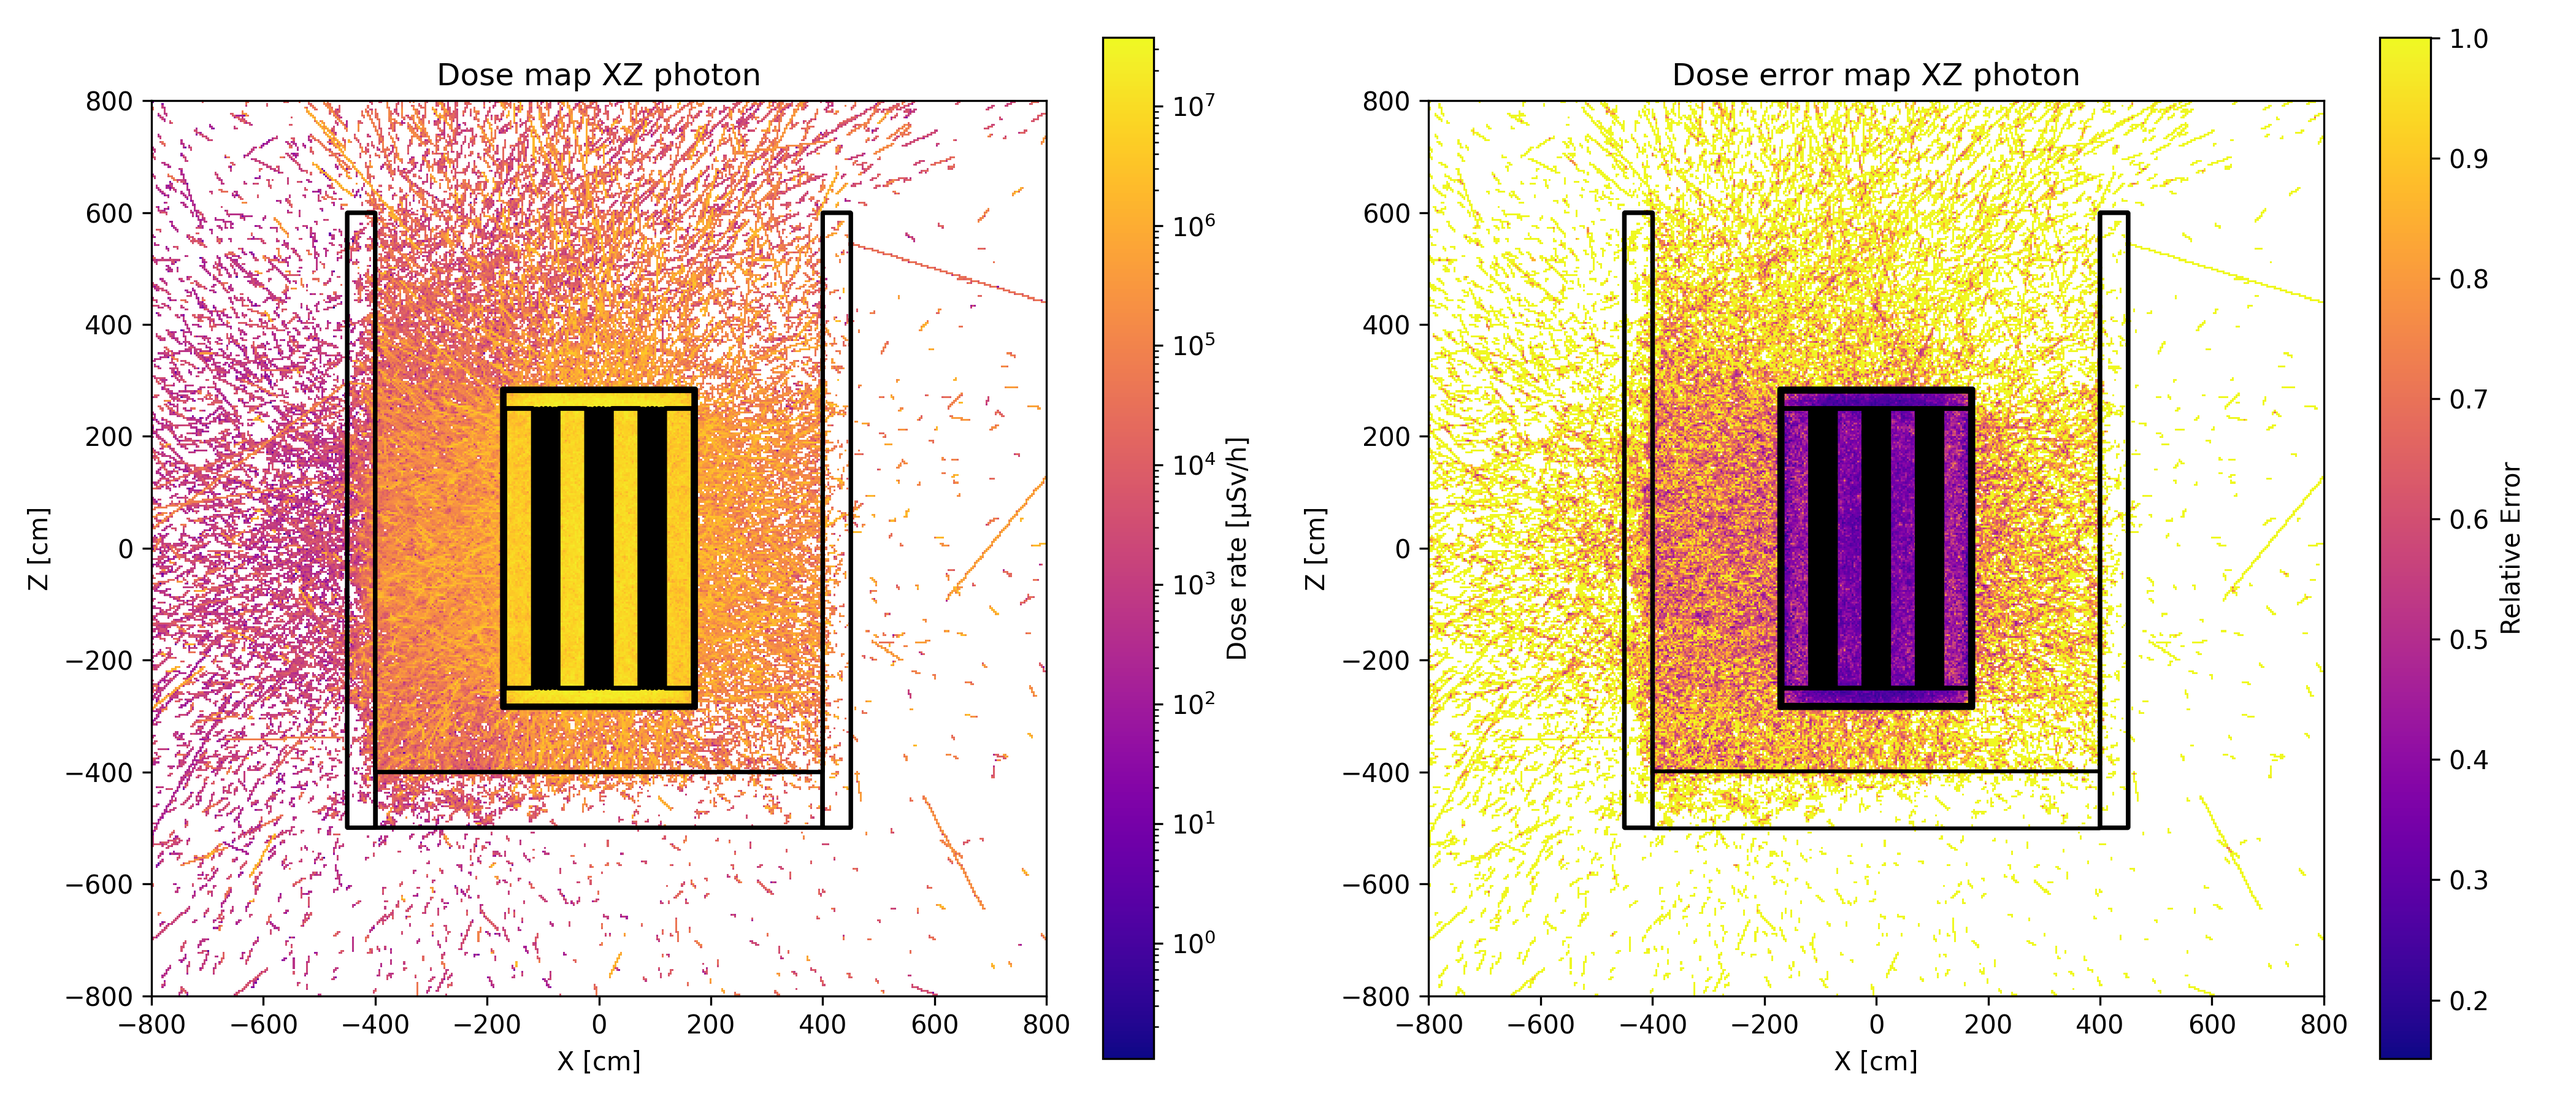
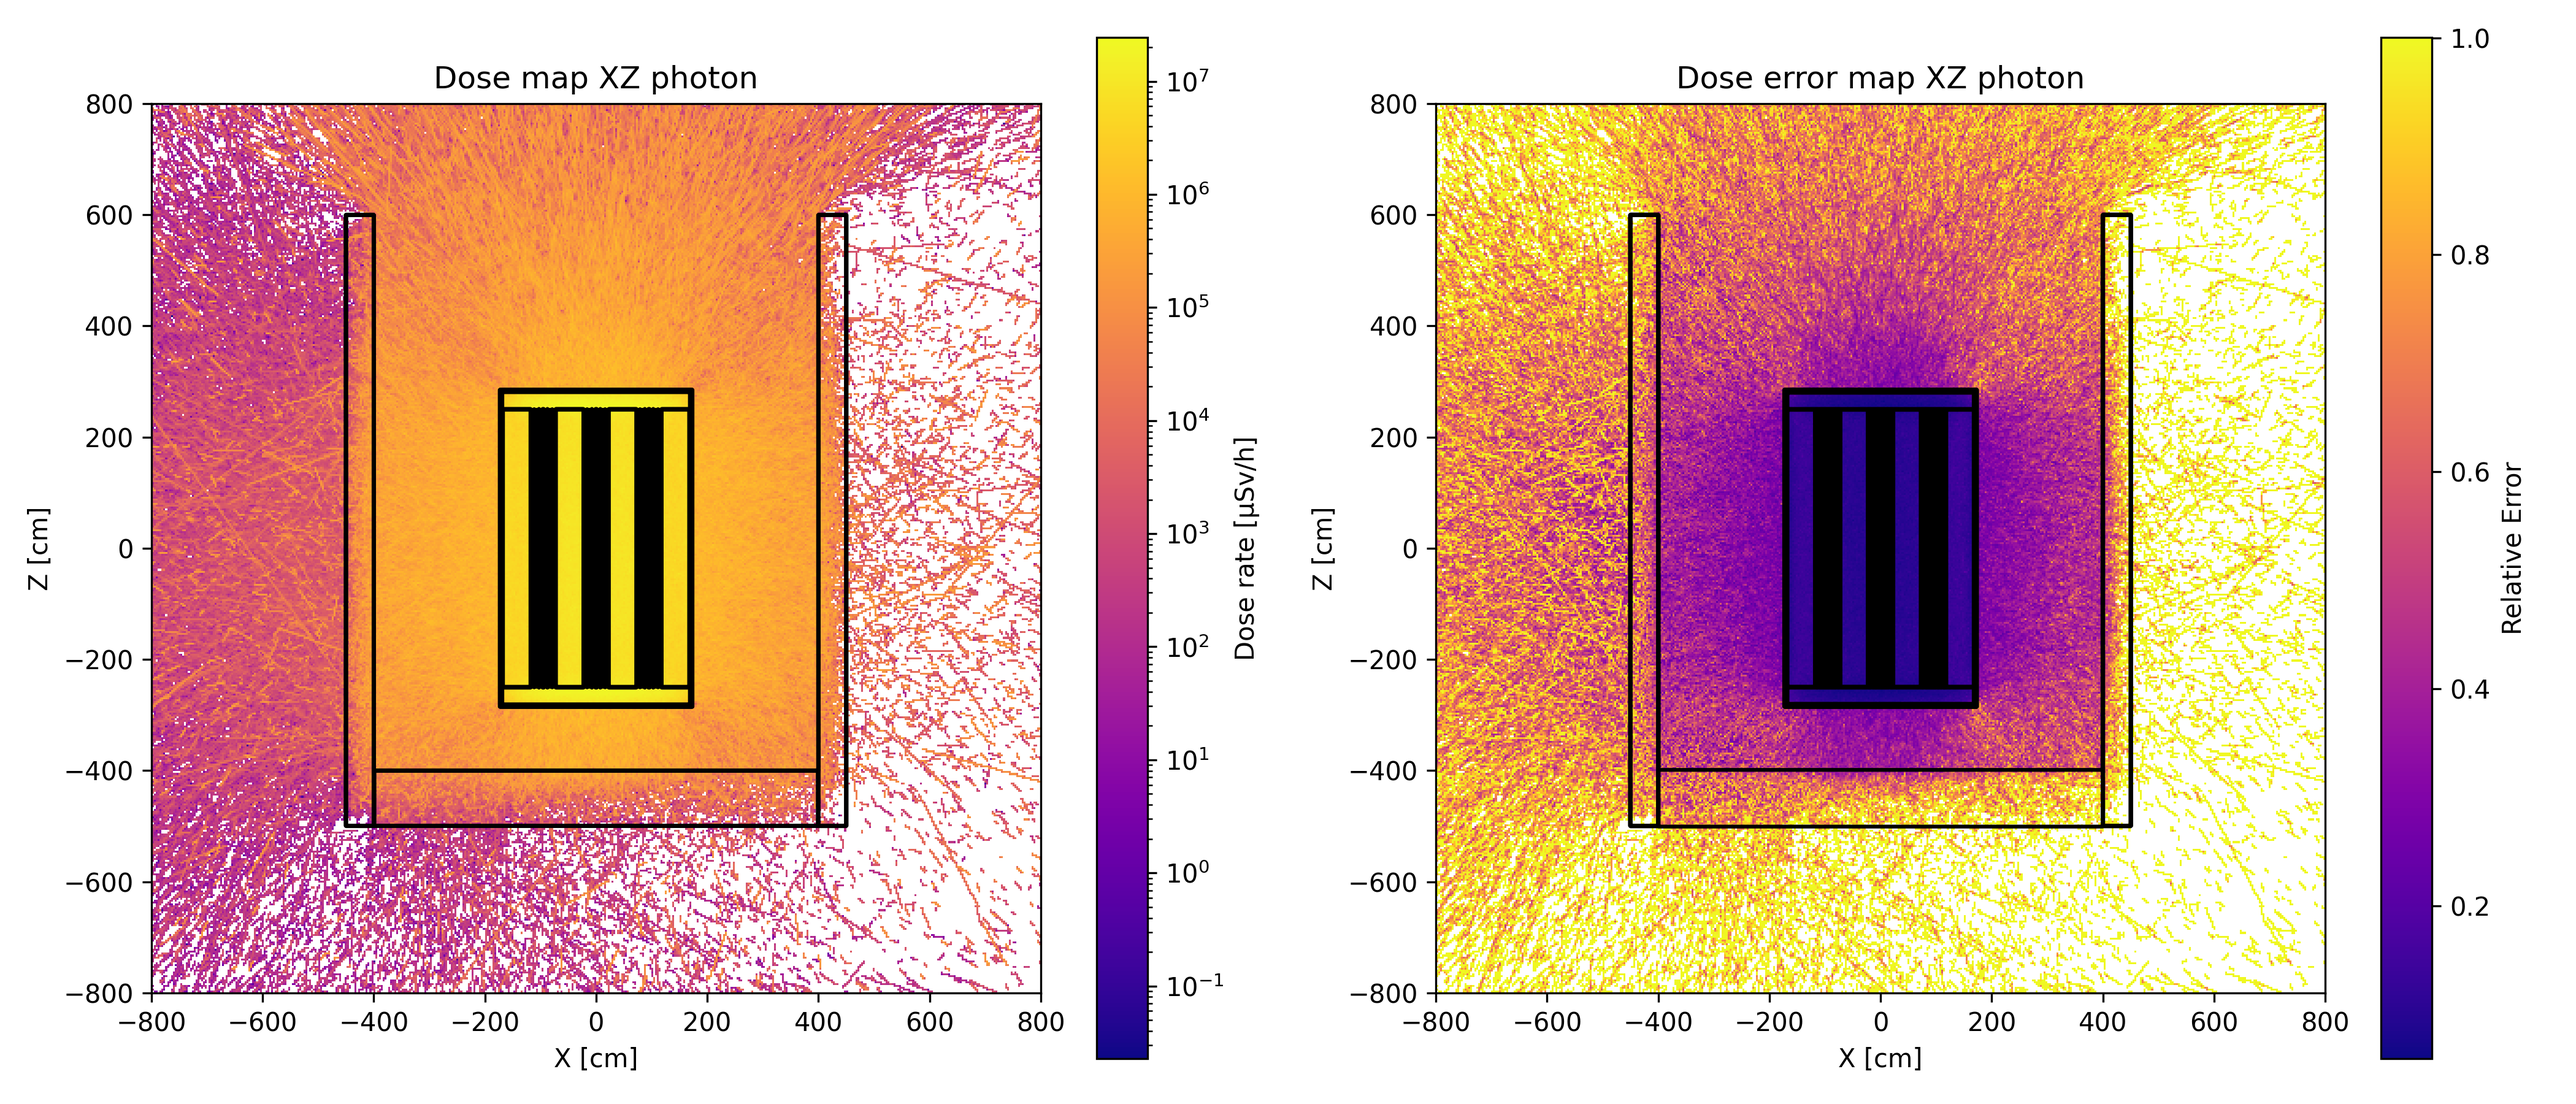
fix:fix_plot_dose

diff --git a/src/studies/reactor_study/class_model/stop_24h/02_with_ww/02_ww_using/02_ww_modifying/post.py b/src/studies/reactor_study/class_model/stop_24h/02_with_ww/02_ww_using/02_ww_modifying/post.py
@@ -22,7 +22,7 @@ os.environ["OPENMC_CROSS_SECTIONS"] = PATH_TO_CROSS_SECTIONS
 
 material_dict["FUEL_UO2_MATERIAL"].remove_element("U")
 
-statepoint = openmc.StatePoint(f"statepoint.100.h5")
+statepoint = openmc.StatePoint(f"statepoint.120.h5")
 
 bin_mesh_volume = get_mesh_volumes(lower_left=(-850.0, -850.0), upper_right=(850.0, 850.0), thickness=20.0, bin_number=500)
 photons_per_s = 2.5e15
@@ -60,3 +60,13 @@ dose_rate, dose_rate_error = compute_dose_rate_tally(
 
 relative_error = (dose_rate_error / dose_rate) * 100 if dose_rate > 0 else 0
 print(f"Dose rate in the calculation sphere: {dose_rate:.2f} mSv/h (relative error: {relative_error:.2f} %)")
+
+mesh_tally_photons = mesh_tally_data(statepoint, "flux_mesh_photons_xy", "xy", 500, (-850.0, -850.0), (850.0, 850.0))
+mesh_tally_photons.plot_dose(axis_two_index=250, 
+                             particles_per_second=photons_per_s, 
+                             x_lim=(-850, 0),
+                             y_lim=(1e2, 1e10),
+                             mesh_bin_volume=bin_mesh_volume,
+                             save_fig=True,
+                             radiological_area=True,
+                             fig_name="dose_plot_photons.png")

diff --git a/src/utils/post_preocessing/post_processing.py b/src/utils/post_preocessing/post_processing.py
@@ -680,9 +680,9 @@ class mesh_tally_data:
             else:
                 plt.legend()
             finalize_plot(
-            f'{plane[0].upper()} [cm]',
+            f'{plane[1].upper()} [cm]',
             "Dose rate [µSv/h]",
-            f'Dose {particule_type} = f({plane[0].lower()}) at {plane[1].lower()}={coords[1][axis_one_index]:.2f} cm'
+            f'Dose {particule_type} = f({plane[1].lower()}) at {plane[0].lower()}={coords[0][axis_one_index]:.2f} cm'
             )
 
         if axis_two_index is not None:
@@ -697,9 +697,9 @@ class mesh_tally_data:
             else:
                 plt.legend()
             finalize_plot(
-            f'{plane[1].upper()} [cm]',
+            f'{plane[0].upper()} [cm]',
             "Dose rate [µSv/h]",
-            f'Dose {particule_type} = f({plane[1].upper()}) at {plane[0].lower()}={coords[0][axis_two_index]:.2f} cm'
+            f'Dose {particule_type} = f({plane[0].upper()}) at {plane[1].lower()}={coords[1][axis_two_index]:.2f} cm'
             )
 
 
